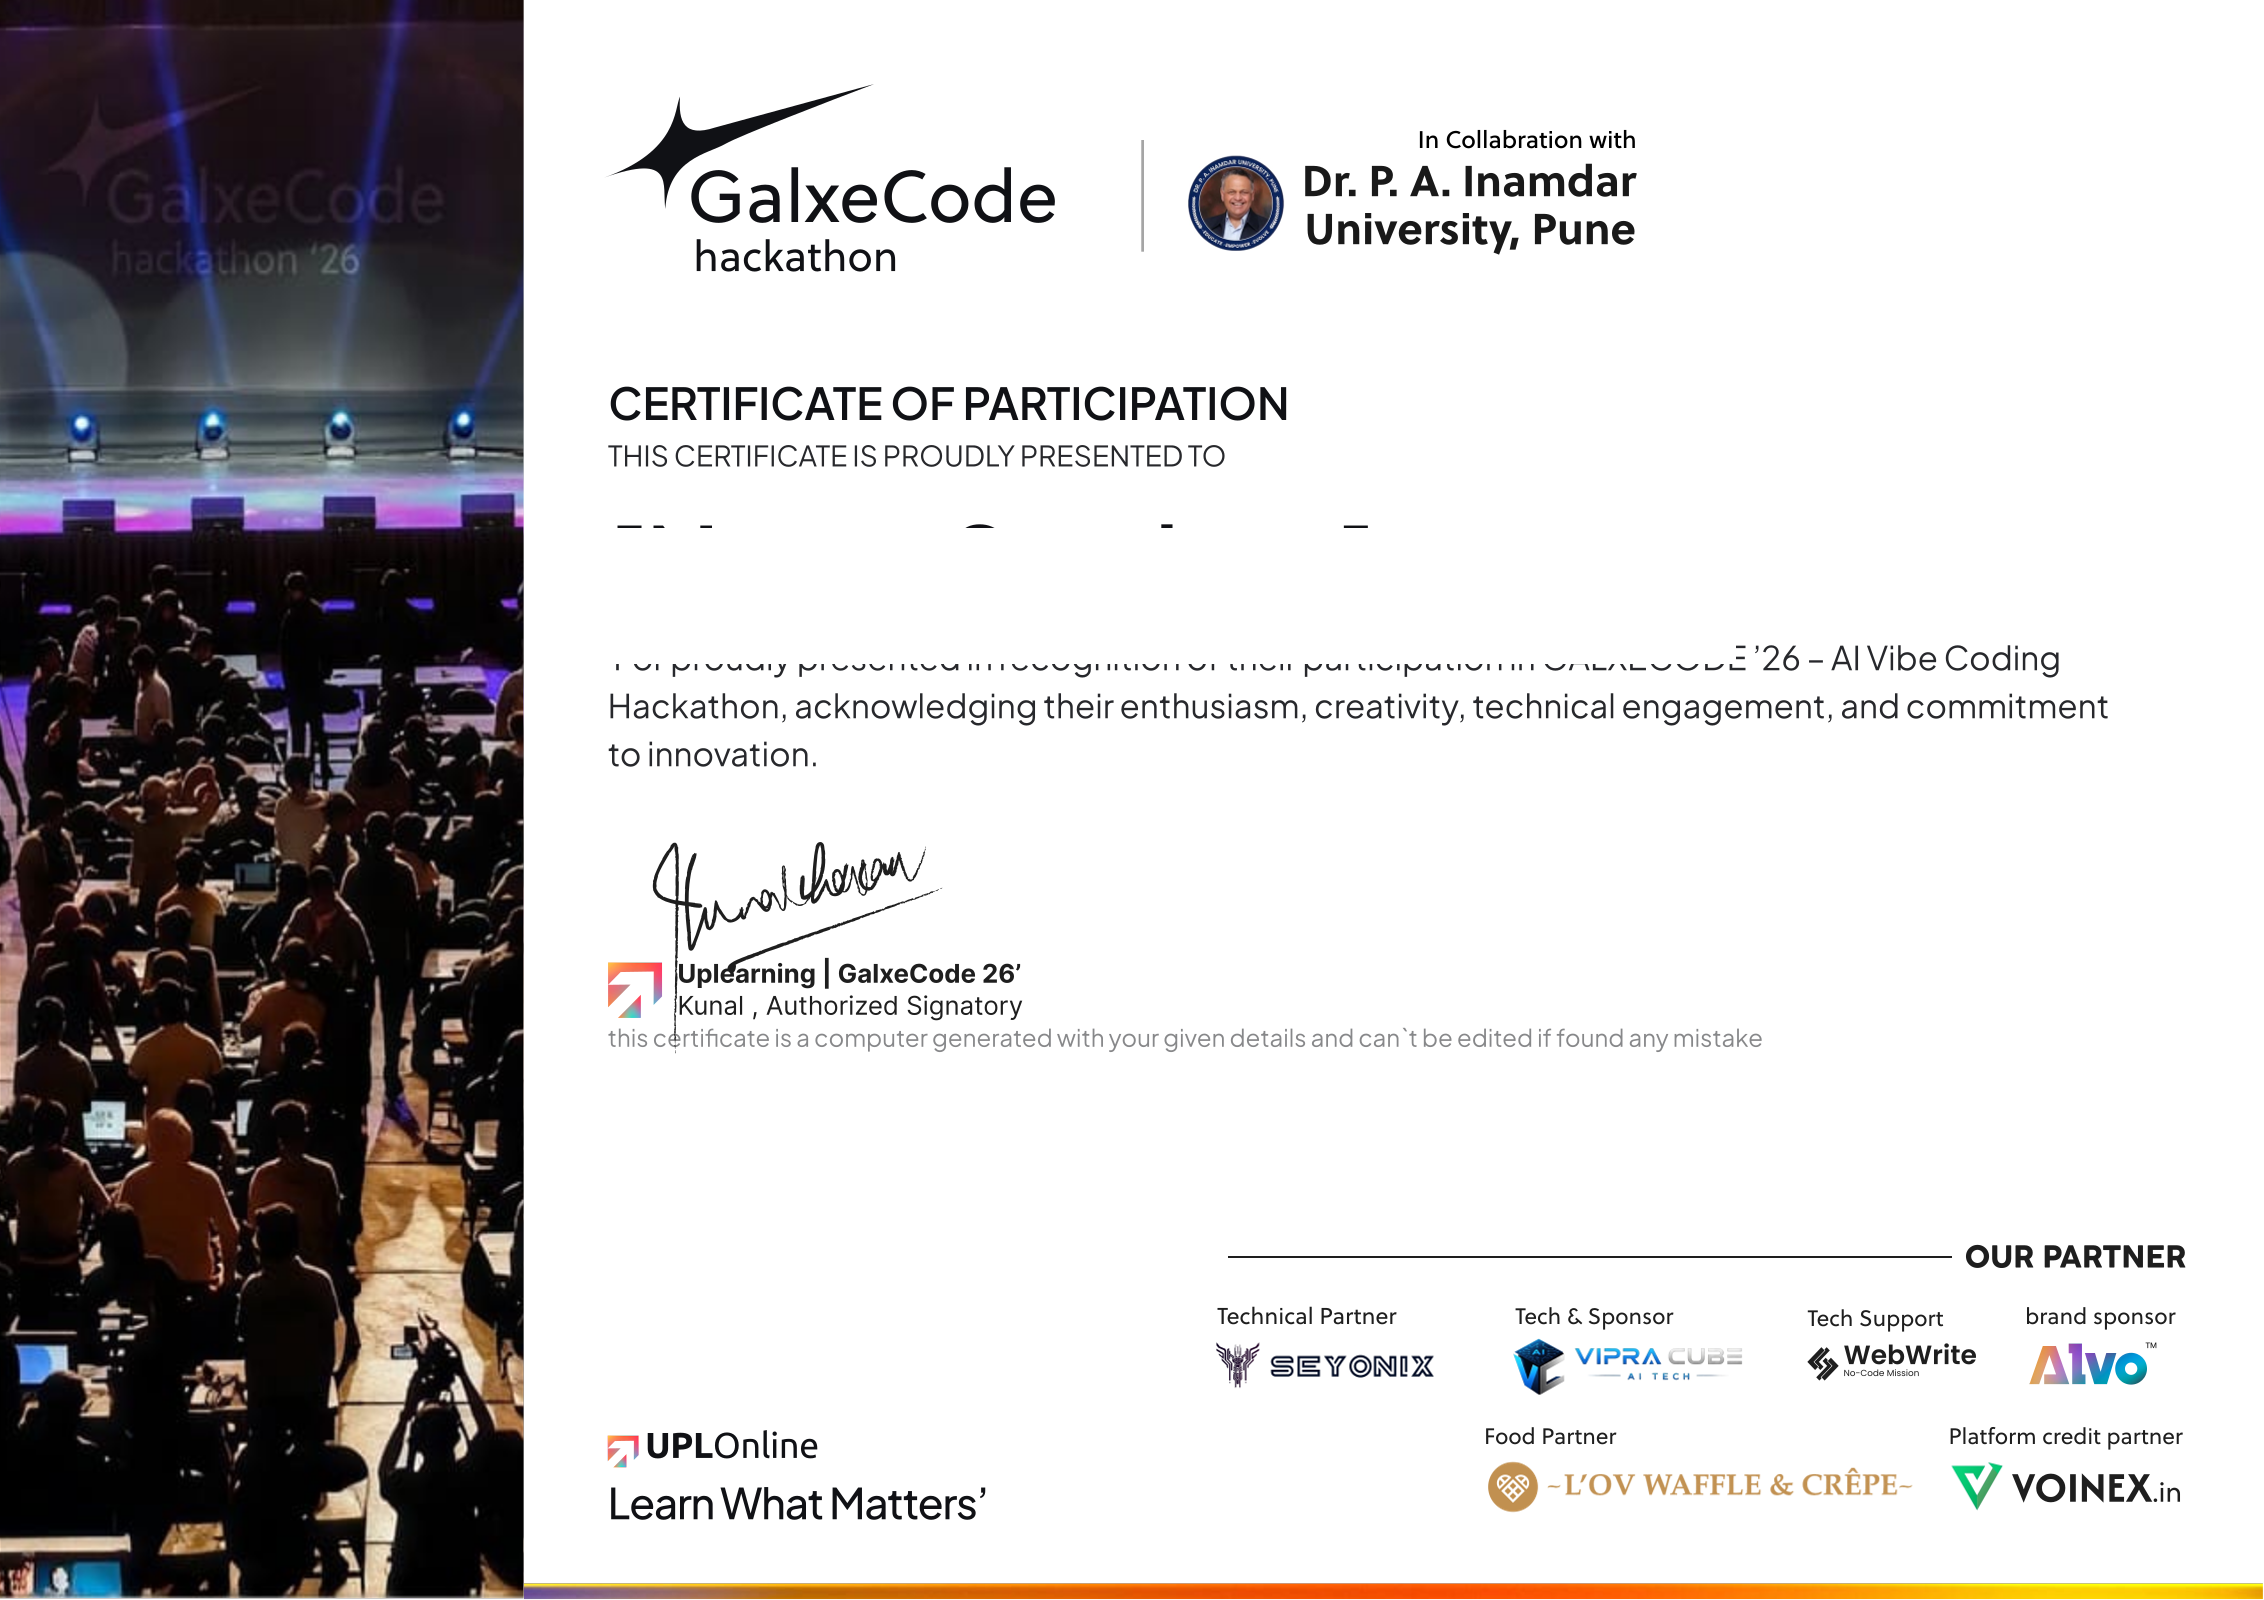
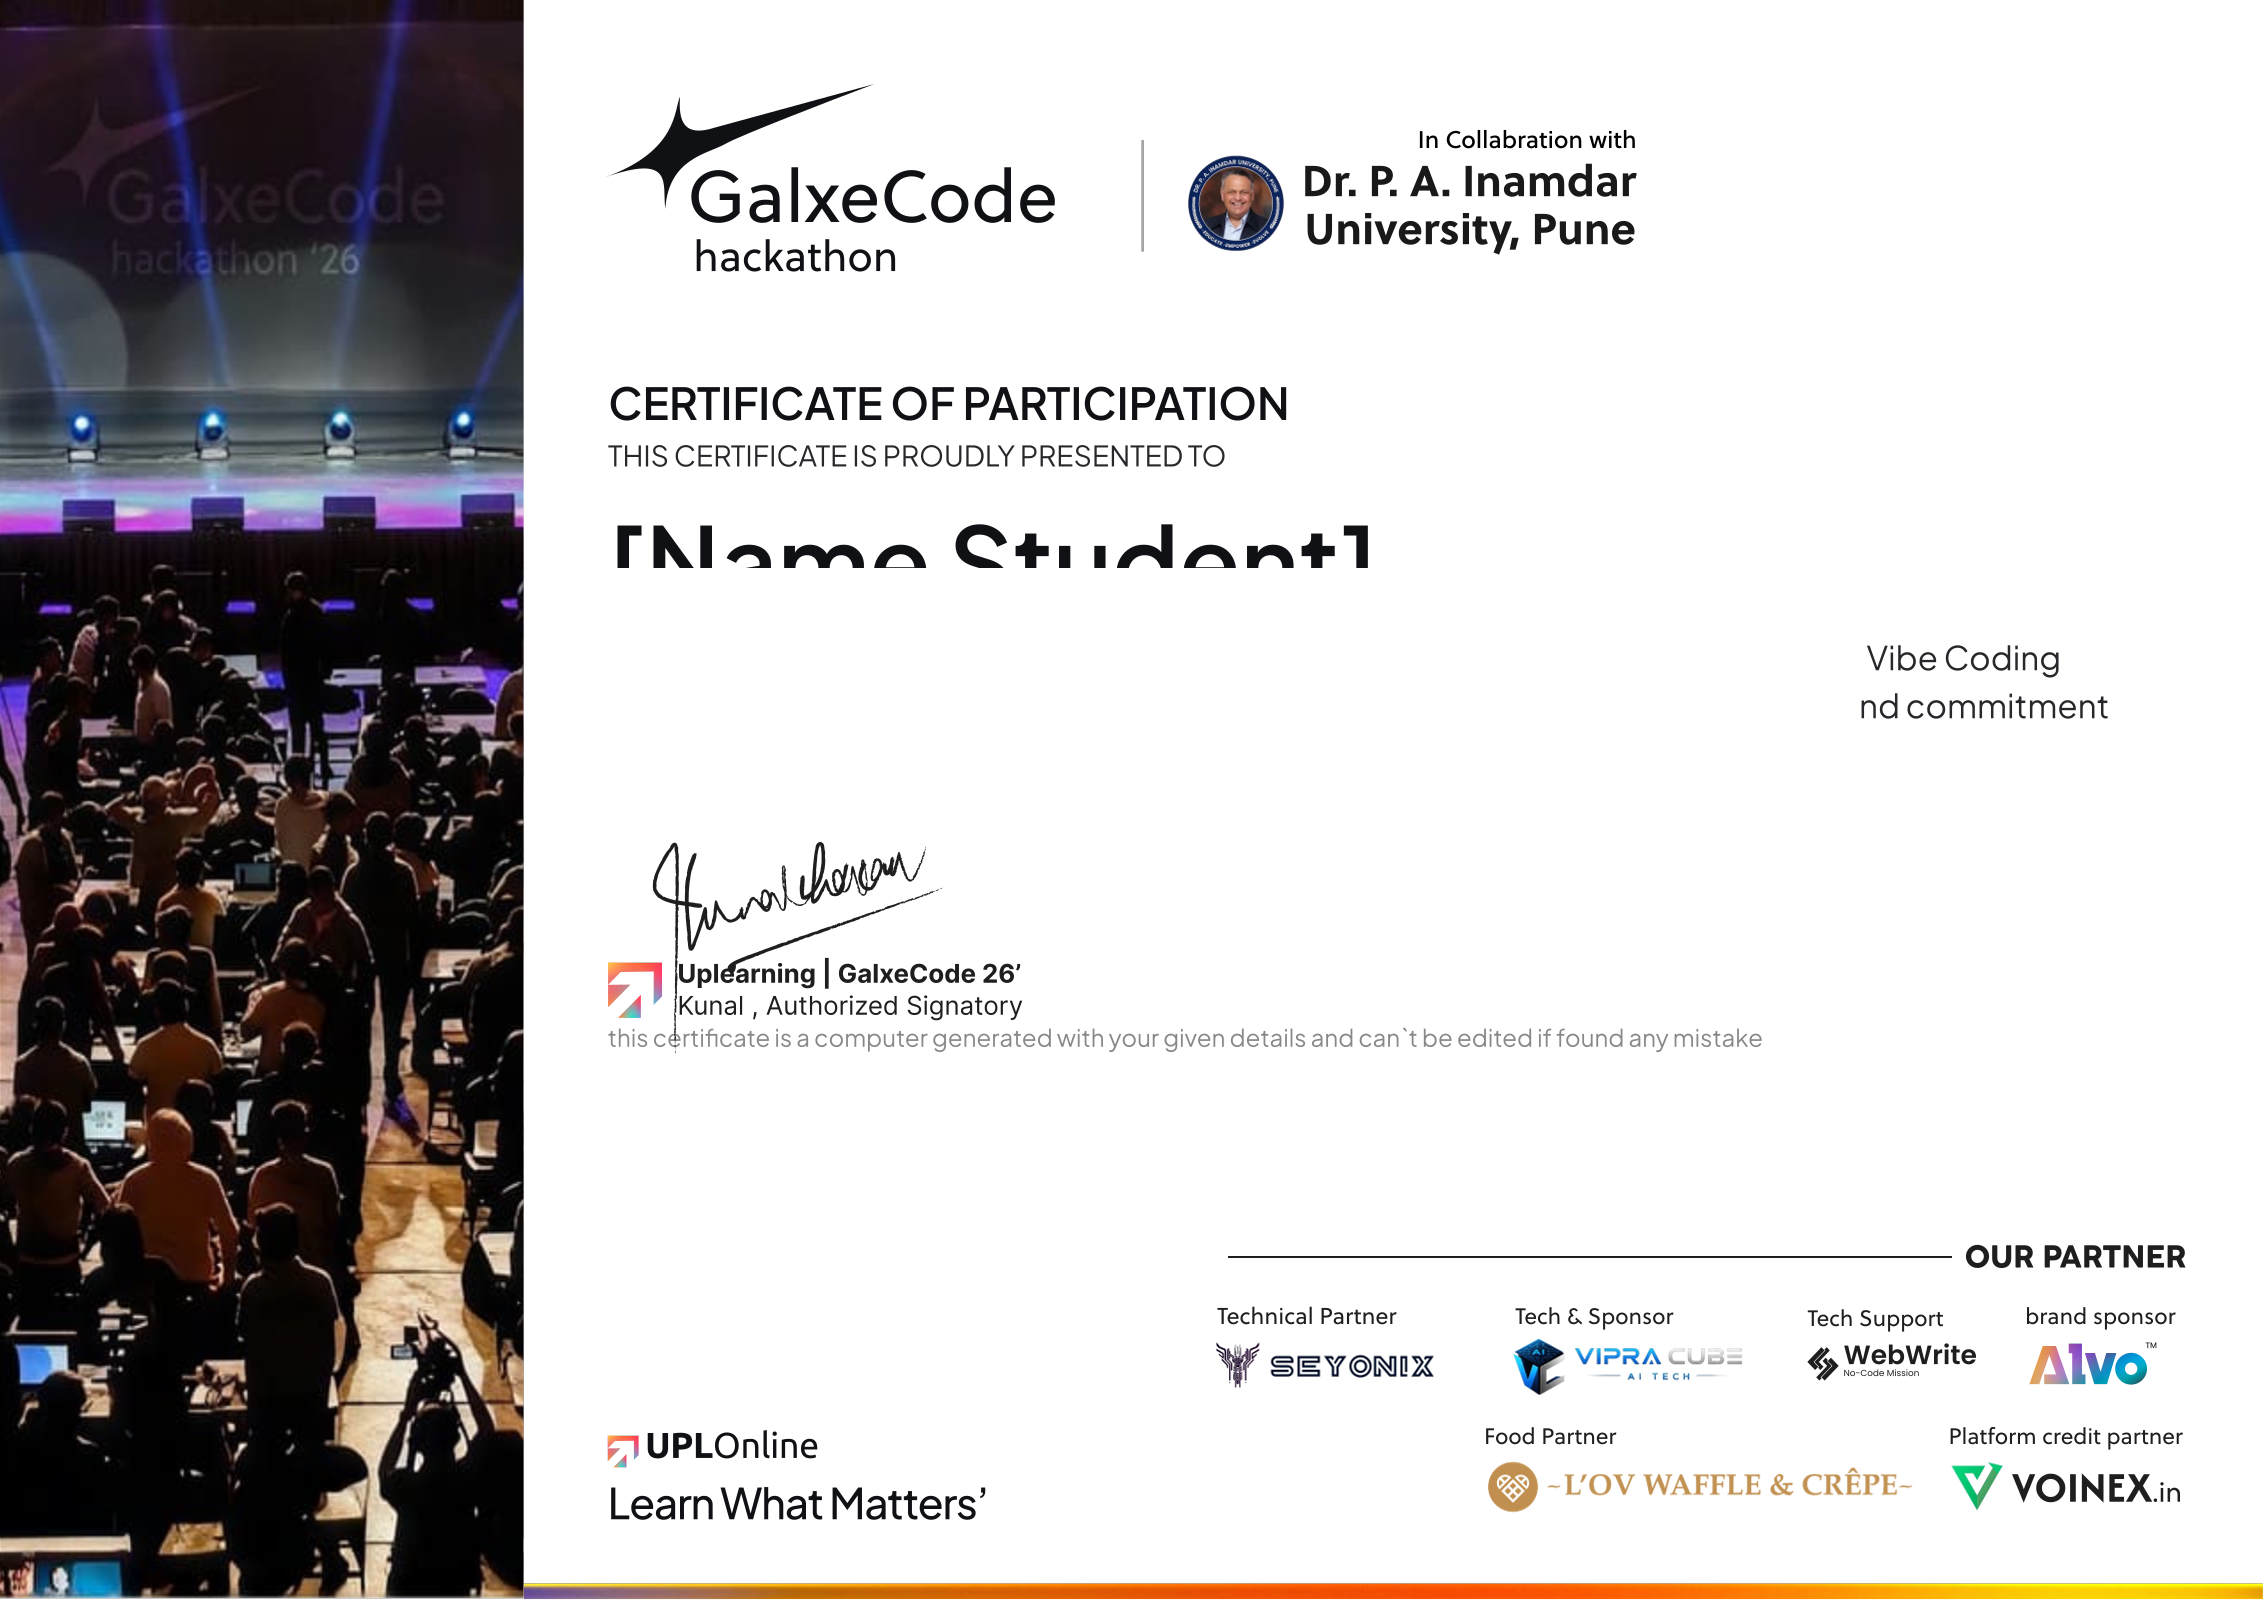
Fix personalized certificate PDF rendering

Changed region(s): [[0.2783, 0.4375, 0.8039, 0.5], [0.2783, 0.3125, 0.6184, 0.375]]

diff --git a/supabase/functions/notify-certificates/index.ts b/supabase/functions/notify-certificates/index.ts
@@ -60,7 +60,7 @@ const createCertificatePdf = async (template: Uint8Array, participantName: strin
   page.drawImage(image, { x: 0, y: 0, width: 566, height: 400 });
   const font = await pdf.embedFont(StandardFonts.HelveticaBold);
   const fontSize = 25;
-  const textWidth = font.widthOfTextAtSize(name, 250);
+  const textWidth = font.widthOfTextAtSize(name, fontSize);
   page.drawText(name, {
     x: 152,
     y: 249,
